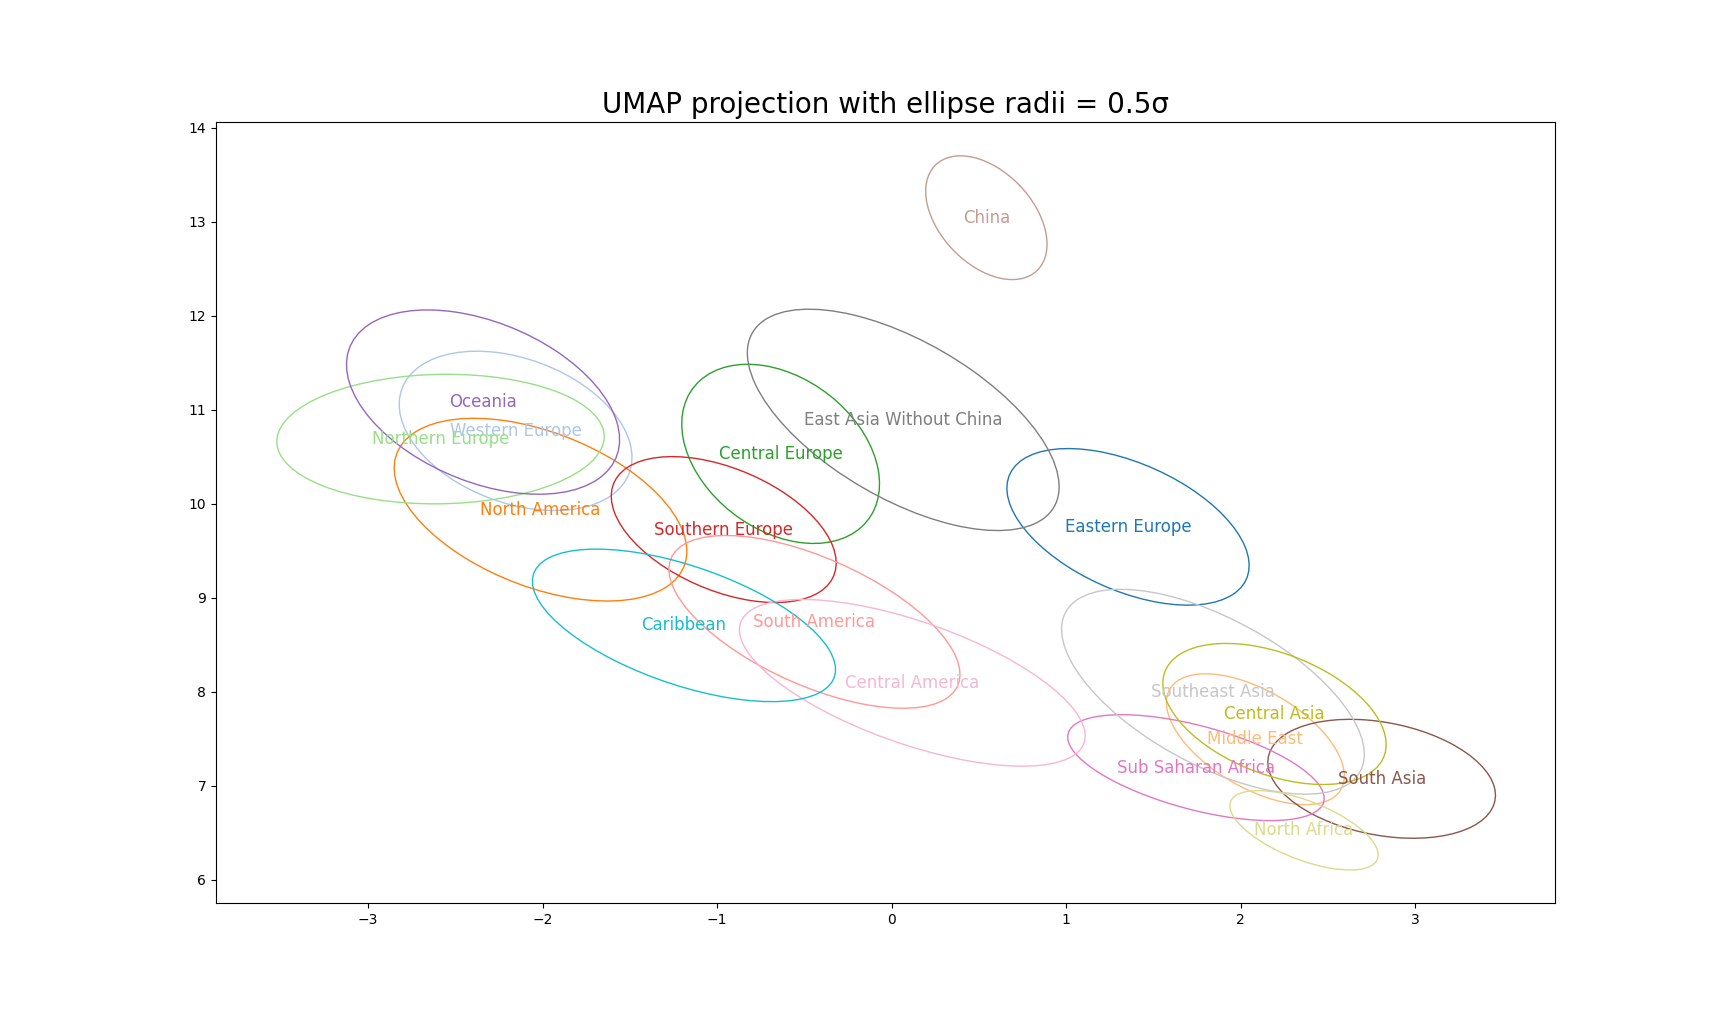
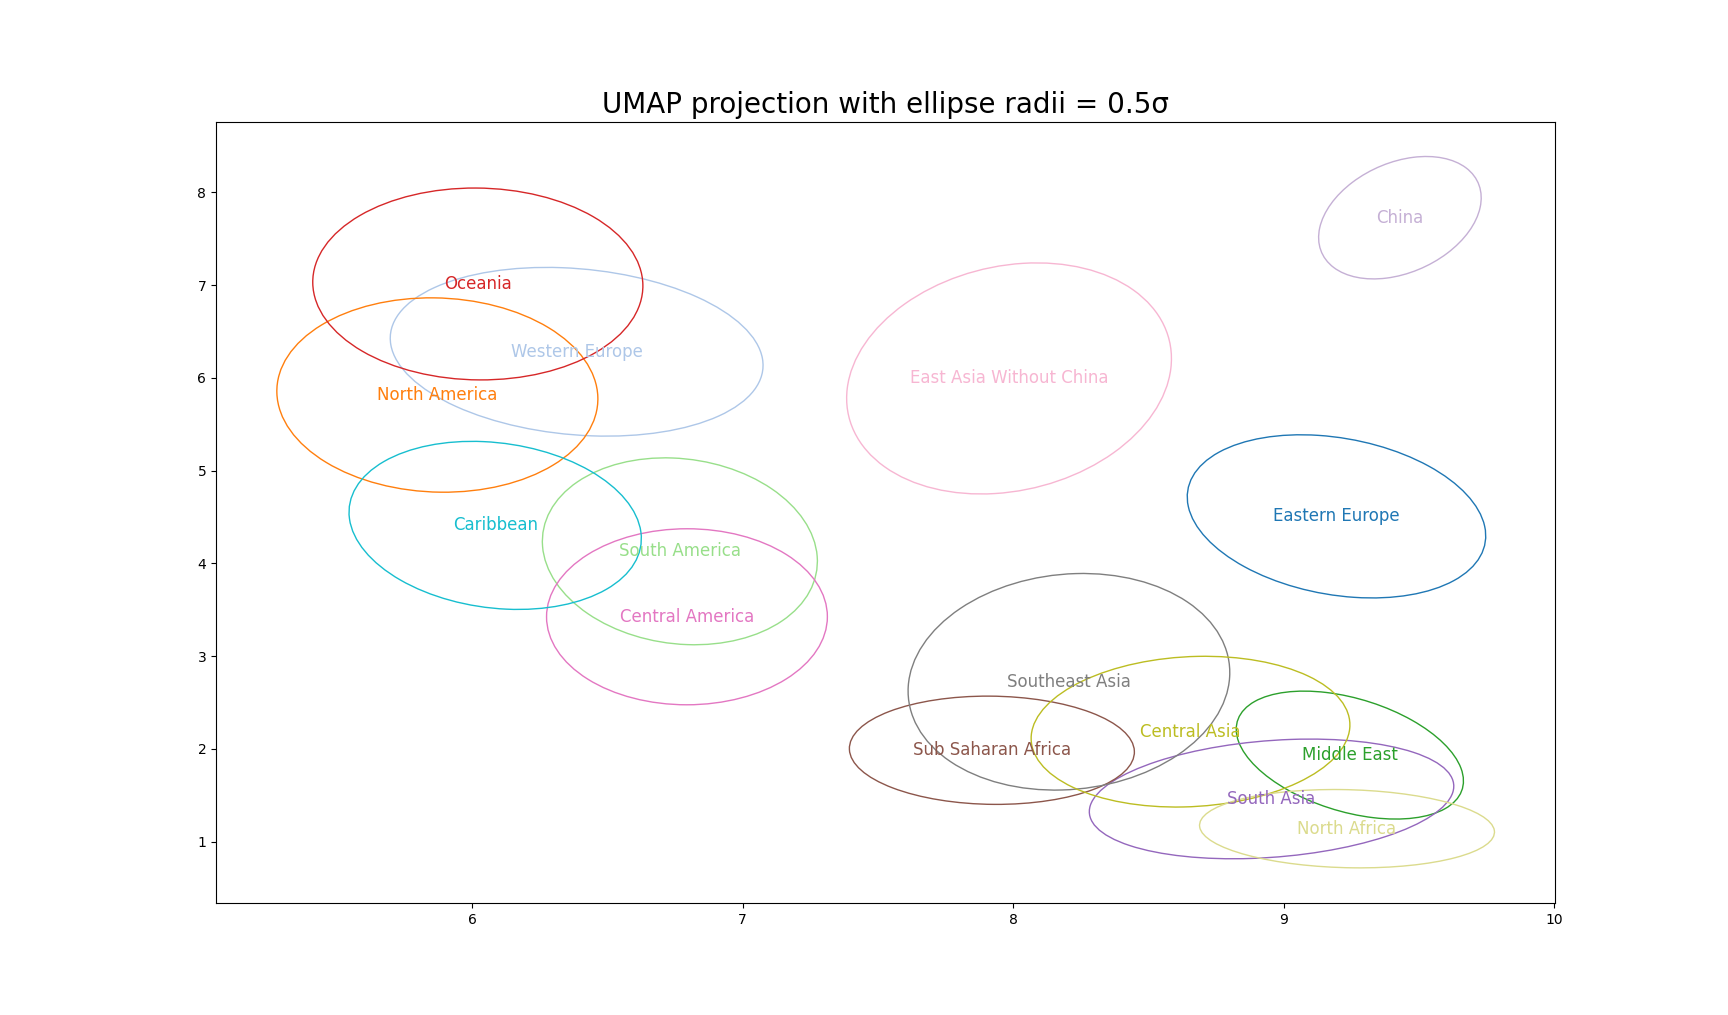
feat: Update plots and importances, only have west/east europe

diff --git a/src/european_values/constants.py b/src/european_values/constants.py
@@ -37,13 +37,6 @@ COUNTRY_GROUPS = {
         "TM",  # Turkmenistan
         "UZ",  # Uzbekistan
     ],
-    "Central Europe": [
-        "CZ",  # Czech Republic
-        "HU",  # Hungary
-        "PL",  # Poland
-        "SI",  # Slovenia
-        "SK",  # Slovakia
-    ],
     "China": [
         "CN"  # China
     ],
@@ -55,25 +48,6 @@ COUNTRY_GROUPS = {
         "MN",  # Mongolia
         "MO",  # Macao
         "TW",  # Taiwan
-    ],
-    "Eastern Europe": [
-        "AL",  # Albania
-        "AM",  # Armenia
-        "AZ",  # Azerbaijan
-        "BA",  # Bosnia and Herzegovina
-        "BG",  # Bulgaria
-        "BY",  # Belarus
-        "GE",  # Georgia
-        "HR",  # Croatia
-        "MD",  # Moldova
-        "ME",  # Montenegro
-        "MK",  # North Macedonia
-        "RO",  # Romania
-        "RS",  # Serbia
-        "RU",  # Russia
-        "TR",  # Turkey
-        "UA",  # Ukraine
-        "XK",  # Kosovo
     ],
     "Middle East": [
         "AE",  # United Arab Emirates
@@ -106,18 +80,6 @@ COUNTRY_GROUPS = {
     "North America": [
         "CA",  # Canada
         "US",  # United States
-    ],
-    "Northern Europe": [
-        "DK",  # Denmark
-        "EE",  # Estonia
-        "FI",  # Finland
-        "FO",  # Faroe Islands
-        "GL",  # Greenland
-        "IS",  # Iceland
-        "LT",  # Lithuania
-        "LV",  # Latvia
-        "NO",  # Norway
-        "SE",  # Sweden
     ],
     "Oceania": [
         "AS",  # American Samoa
@@ -180,17 +142,6 @@ COUNTRY_GROUPS = {
         "TL",  # Timor-Leste
         "VN",  # Vietnam
     ],
-    "Southern Europe": [
-        "AD",  # Andorra
-        "CY",  # Cyprus
-        "ES",  # Spain
-        "GR",  # Greece
-        "IT",  # Italy
-        "MT",  # Malta
-        "PT",  # Portugal
-        "SM",  # San Marino
-        "VA",  # Vatican City
-    ],
     "Sub Saharan Africa": [
         "AO",  # Angola
         "BF",  # Burkina Faso
@@ -238,18 +189,54 @@ COUNTRY_GROUPS = {
         "ZW",  # Zimbabwe
     ],
     "Western Europe": [
-        "AT",  # Austria
-        "BE",  # Belgium
-        "CH",  # Switzerland
-        "DE",  # Germany
+        "EE",  # Estonia
+        "CZ",  # Czech Republic
+        "LV",  # Latvia
+        "HU",  # Hungary
+        "NL",  # Netherlands
         "FR",  # France
         "GB",  # United Kingdom
-        "IE",  # Ireland
-        "LI",  # Liechtenstein
+        "DE",  # Germany
+        "AD",  # Andorra
         "LU",  # Luxembourg
-        "MC",  # Monaco
-        "NL",  # Netherlands
+        "SI",  # Slovenia
+        "SK",  # Slovakia
+        "BE",  # Belgium
+        "ES",  # Spain
+        "AT",  # Austria
+        "HR",  # Croatia
+        "IT",  # Italy
+        "PT",  # Portugal
+        "IE",  # Ireland
+        "PL",  # Poland
+        "LT",  # Lithuania
+        "MT",  # Malta
         "NIR",  # Northern Ireland
+        "IS",  # Iceland
+        "DK",  # Denmark
+        "FI",  # Finland
+        "NO",  # Norway
+        "SE",  # Sweden
+        "CH",  # Switzerland
+    ],
+    "Eastern Europe": [
+        "BG",  # Bulgaria
+        "RU",  # Russia
+        "BY",  # Belarus
+        "UA",  # Ukraine
+        "RS",  # Serbia
+        "AL",  # Albania
+        "ME",  # Montenegro
+        "MK",  # North Macedonia
+        "AM",  # Armenia
+        "GE",  # Georgia
+        "CY",  # Cyprus
+        "GR",  # Greece
+        "MD",  # Moldova
+        "RO",  # Romania
+        "BA",  # Bosnia and Herzegovina
+        "AZ",  # Azerbaijan
+        "TR",  # Turkey
     ],
 }
 
